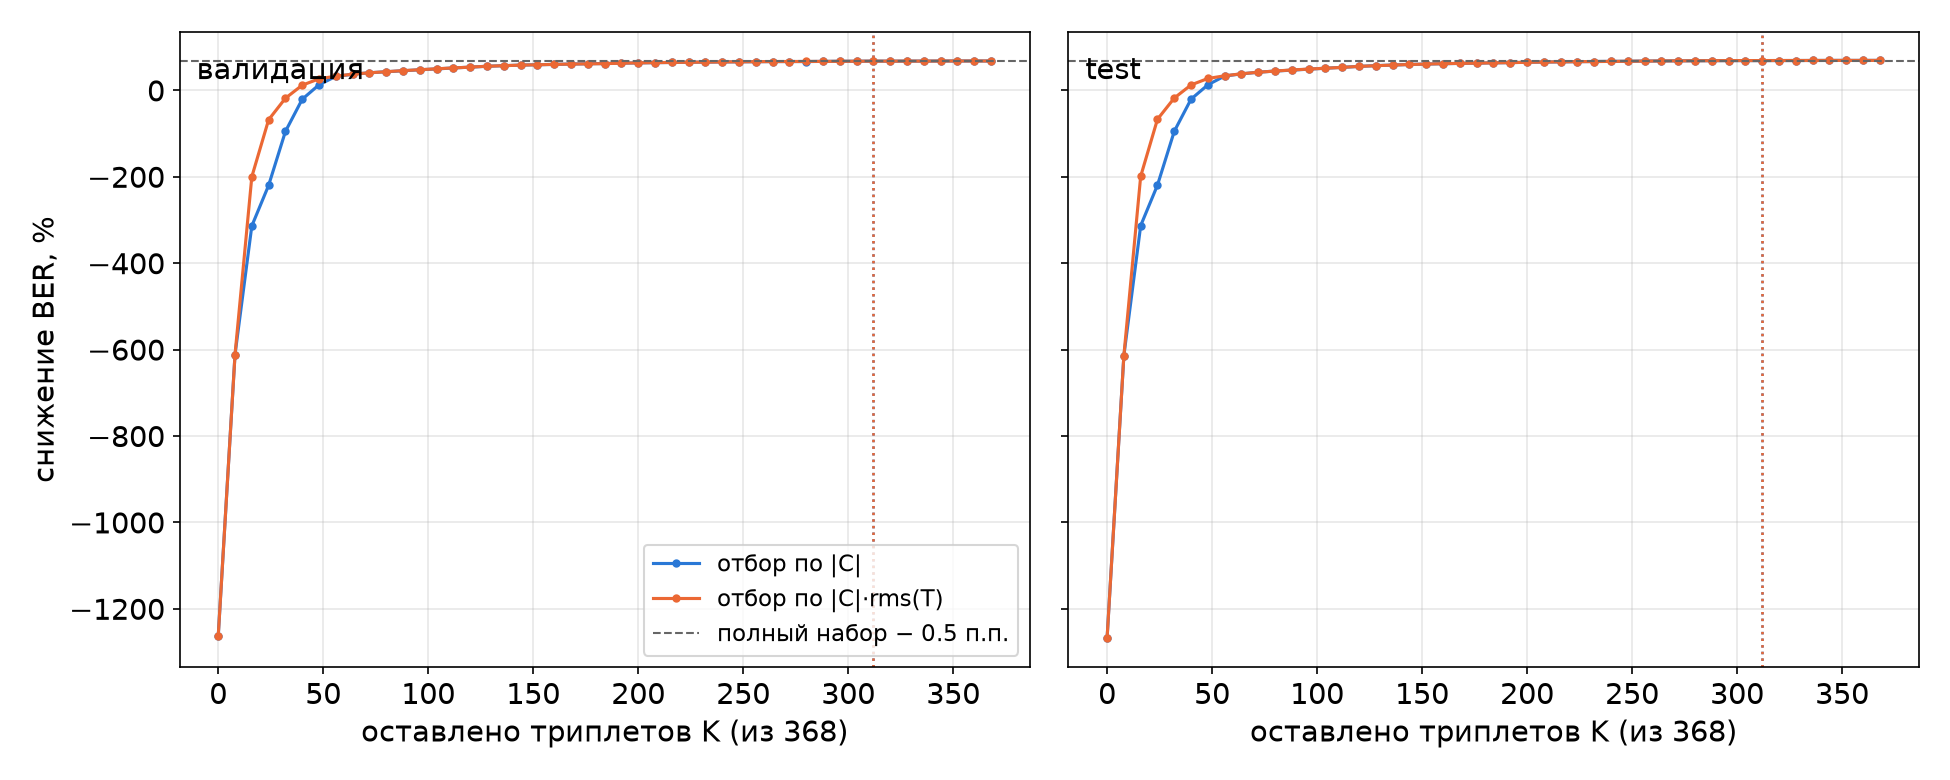
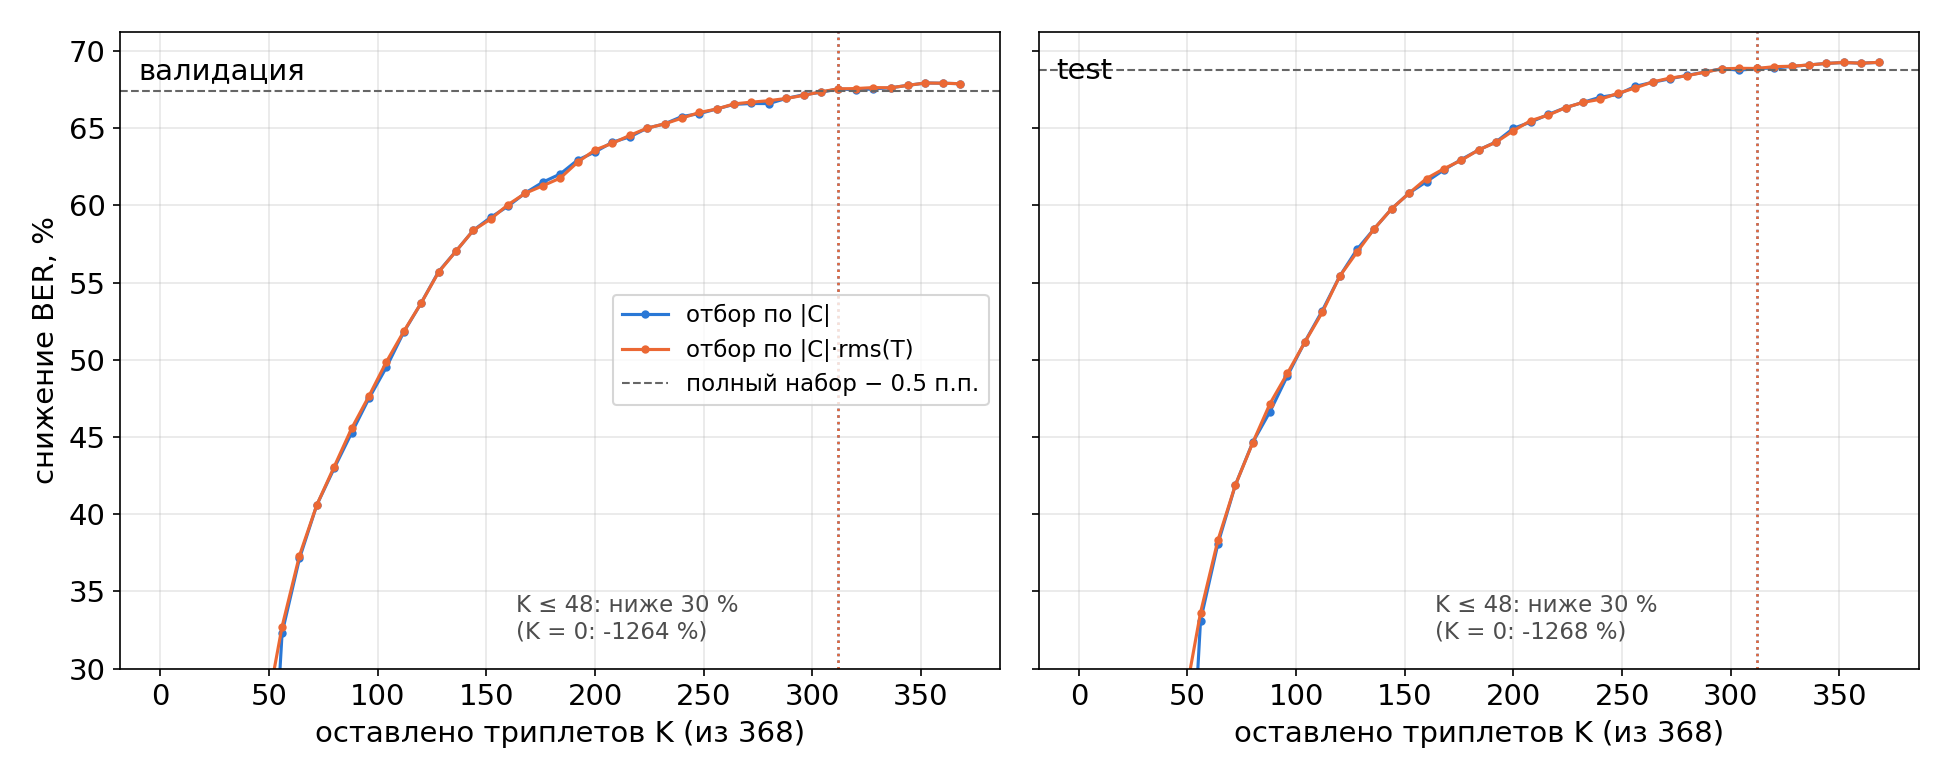
E060: результат в LOG и README (без переобучения обнуляются 56 из 368 триплетов при падении test 0.39 п.п.); рисунок с ограниченной осью

diff --git a/src/constellation_denoiser/e060_triplet_prune.py b/src/constellation_denoiser/e060_triplet_prune.py
@@ -34,6 +34,11 @@ def main() -> int:
     from .window_data import load_fileset, resolve_paths
 
     smoke = os.environ.get("SMOKE", "0") == "1"
+    if os.environ.get("PLOT_ONLY", "0") == "1":                # redraw from the saved results, no data needed
+        res = results_root(EXP, smoke)
+        frame = pd.read_csv(res / "prune_curve.csv")
+        plot(frame, json.loads((res / "verdict.json").read_text(encoding="utf-8")), int(frame.K.max()), smoke)
+        return 0
     cfg = json.loads((exp_dir(EXP) / "config.json").read_text(encoding="utf-8"))
     files = default_files(30, smoke)
     data = {k: load_fileset(resolve_paths(v)) for k, v in files.items()}
@@ -138,10 +143,14 @@ def plot(frame: pd.DataFrame, verdict: dict, n: int, smoke: bool) -> None:
             ax.axvline(kv, color=color, ls=":", lw=1.2)
         ax.axhline(full - 0.5, color="0.4", ls="--", lw=1, label="полный набор − 0.5 п.п.")
         ax.set_xlabel("оставлено триплетов K (из 368)")
+        ax.set_ylim(30, full + 2)
+        low = frame[(frame.score == "abs") & (frame[f"{split}_reduction"] < 30)].K.max()
         ax.text(0.02, 0.96, title, transform=ax.transAxes, va="top")
+        ax.text(0.45, 0.04, f"K ≤ {low}: ниже 30 %\n(K = 0: {frame[frame.K == 0][f'{split}_reduction'].iloc[0]:.0f} %)",
+                transform=ax.transAxes, va="bottom", fontsize=11, color="0.3")
         ax.grid(alpha=0.3)
     axes[0].set_ylabel("снижение BER, %")
-    axes[0].legend(loc="lower right", fontsize=11)
+    axes[0].legend(loc="center right", fontsize=11)
     fig.tight_layout()
     out = (exp_dir(EXP) / ("results_smoke" if smoke else "figures"))
     out.mkdir(parents=True, exist_ok=True)

diff --git a/experiments/E060_triplet_prune_noretrain/README.md b/experiments/E060_triplet_prune_noretrain/README.md
@@ -9,3 +9,16 @@
 **Команда.** `bash experiments/E060_triplet_prune_noretrain/run.sh <стадия>`; стадии: main | smoke.
 
 **Результаты.** `results/prune_curve.csv`, `results/verdict.json`; рисунок `figures/E060_triplet_prune.png`.
+
+## Результат (2026-11-09, сессия E060_1109_1700)
+
+Полный набор (K = 368, RM 4 444): валидация 67.88 %, test 69.27 % (`results/prune_curve.csv`).
+
+| ранжирование | K_val | выброшено | RM при K_val | test при K_val | падение test, п.п. | справочно: K по test |
+|---|---|---|---|---|---|---|
+| \|C\| | 312 | 56 | 3 772 | 68.87 % | 0.39 | 296 |
+| \|C\|·rms(T) | 312 | 56 | 3 772 | 68.87 % | 0.39 | 296 |
+
+Вывод по правилу: без переобучения можно обнулить 56 из 368 членов (−15 % RM). Все 56 внеосевые, большие |m|+|n| (в среднем 23.2 против 13.6 у всего набора). Способы ранжирования не различаются (разница K_val 0 < 16). При K ≤ 48 снижение ниже 30 %, при K = 0 −1 264 %: КИХ7 подогнан вместе с триплетами и без них не работает.
+
+Ограничения: один набор коэффициентов (30 train-файлов), без бутстрэп-реплик и seeds; сетка K с шагом 8; без дообучения оставшихся членов (с дообучением см. E034, E046).

diff --git a/LOG.md b/LOG.md
@@ -516,3 +516,11 @@
 Результат: —
 Вывод: —
 Ограничения: один набор коэффициентов (все 30 train-файлов), без бутстрэп-реплик; без дообучения оставшихся членов.
+
+## E060 — результат (2026-11-09, сессия E060_1109_1700)
+Вопрос: см. запись E060 выше.
+Правило интерпретации (до запуска): ЧЕРНОВИК, без изменений (`experiments/E060_triplet_prune_noretrain/config.json`, `rule_draft`).
+Что запускали: стадия main; коэффициенты E035 `warm_M15.npz`; K = 368, 360, …, 8, 0; два ранжирования.
+Результат (`experiments/E060_triplet_prune_noretrain/results/verdict.json`, `prune_curve.csv`): полный набор — валидация 67.88 %, test 69.27 %. K_val = 312 для обоих ранжирований (выброшено 56, RM 4 444 → 3 772), test в этой точке 68.87 % (−0.39 п.п.). Справочно по test: K = 296.
+Вывод: без переобучения обнуляются 56 из 368 членов (все внеосевые, с большими |m|+|n|); |C| и |C|·rms(T) не различаются.
+Ограничения: один набор коэффициентов, без реплик; шаг сетки 8; при K ≤ 48 модель хуже 30 % (КИХ7 подогнан совместно с триплетами).
